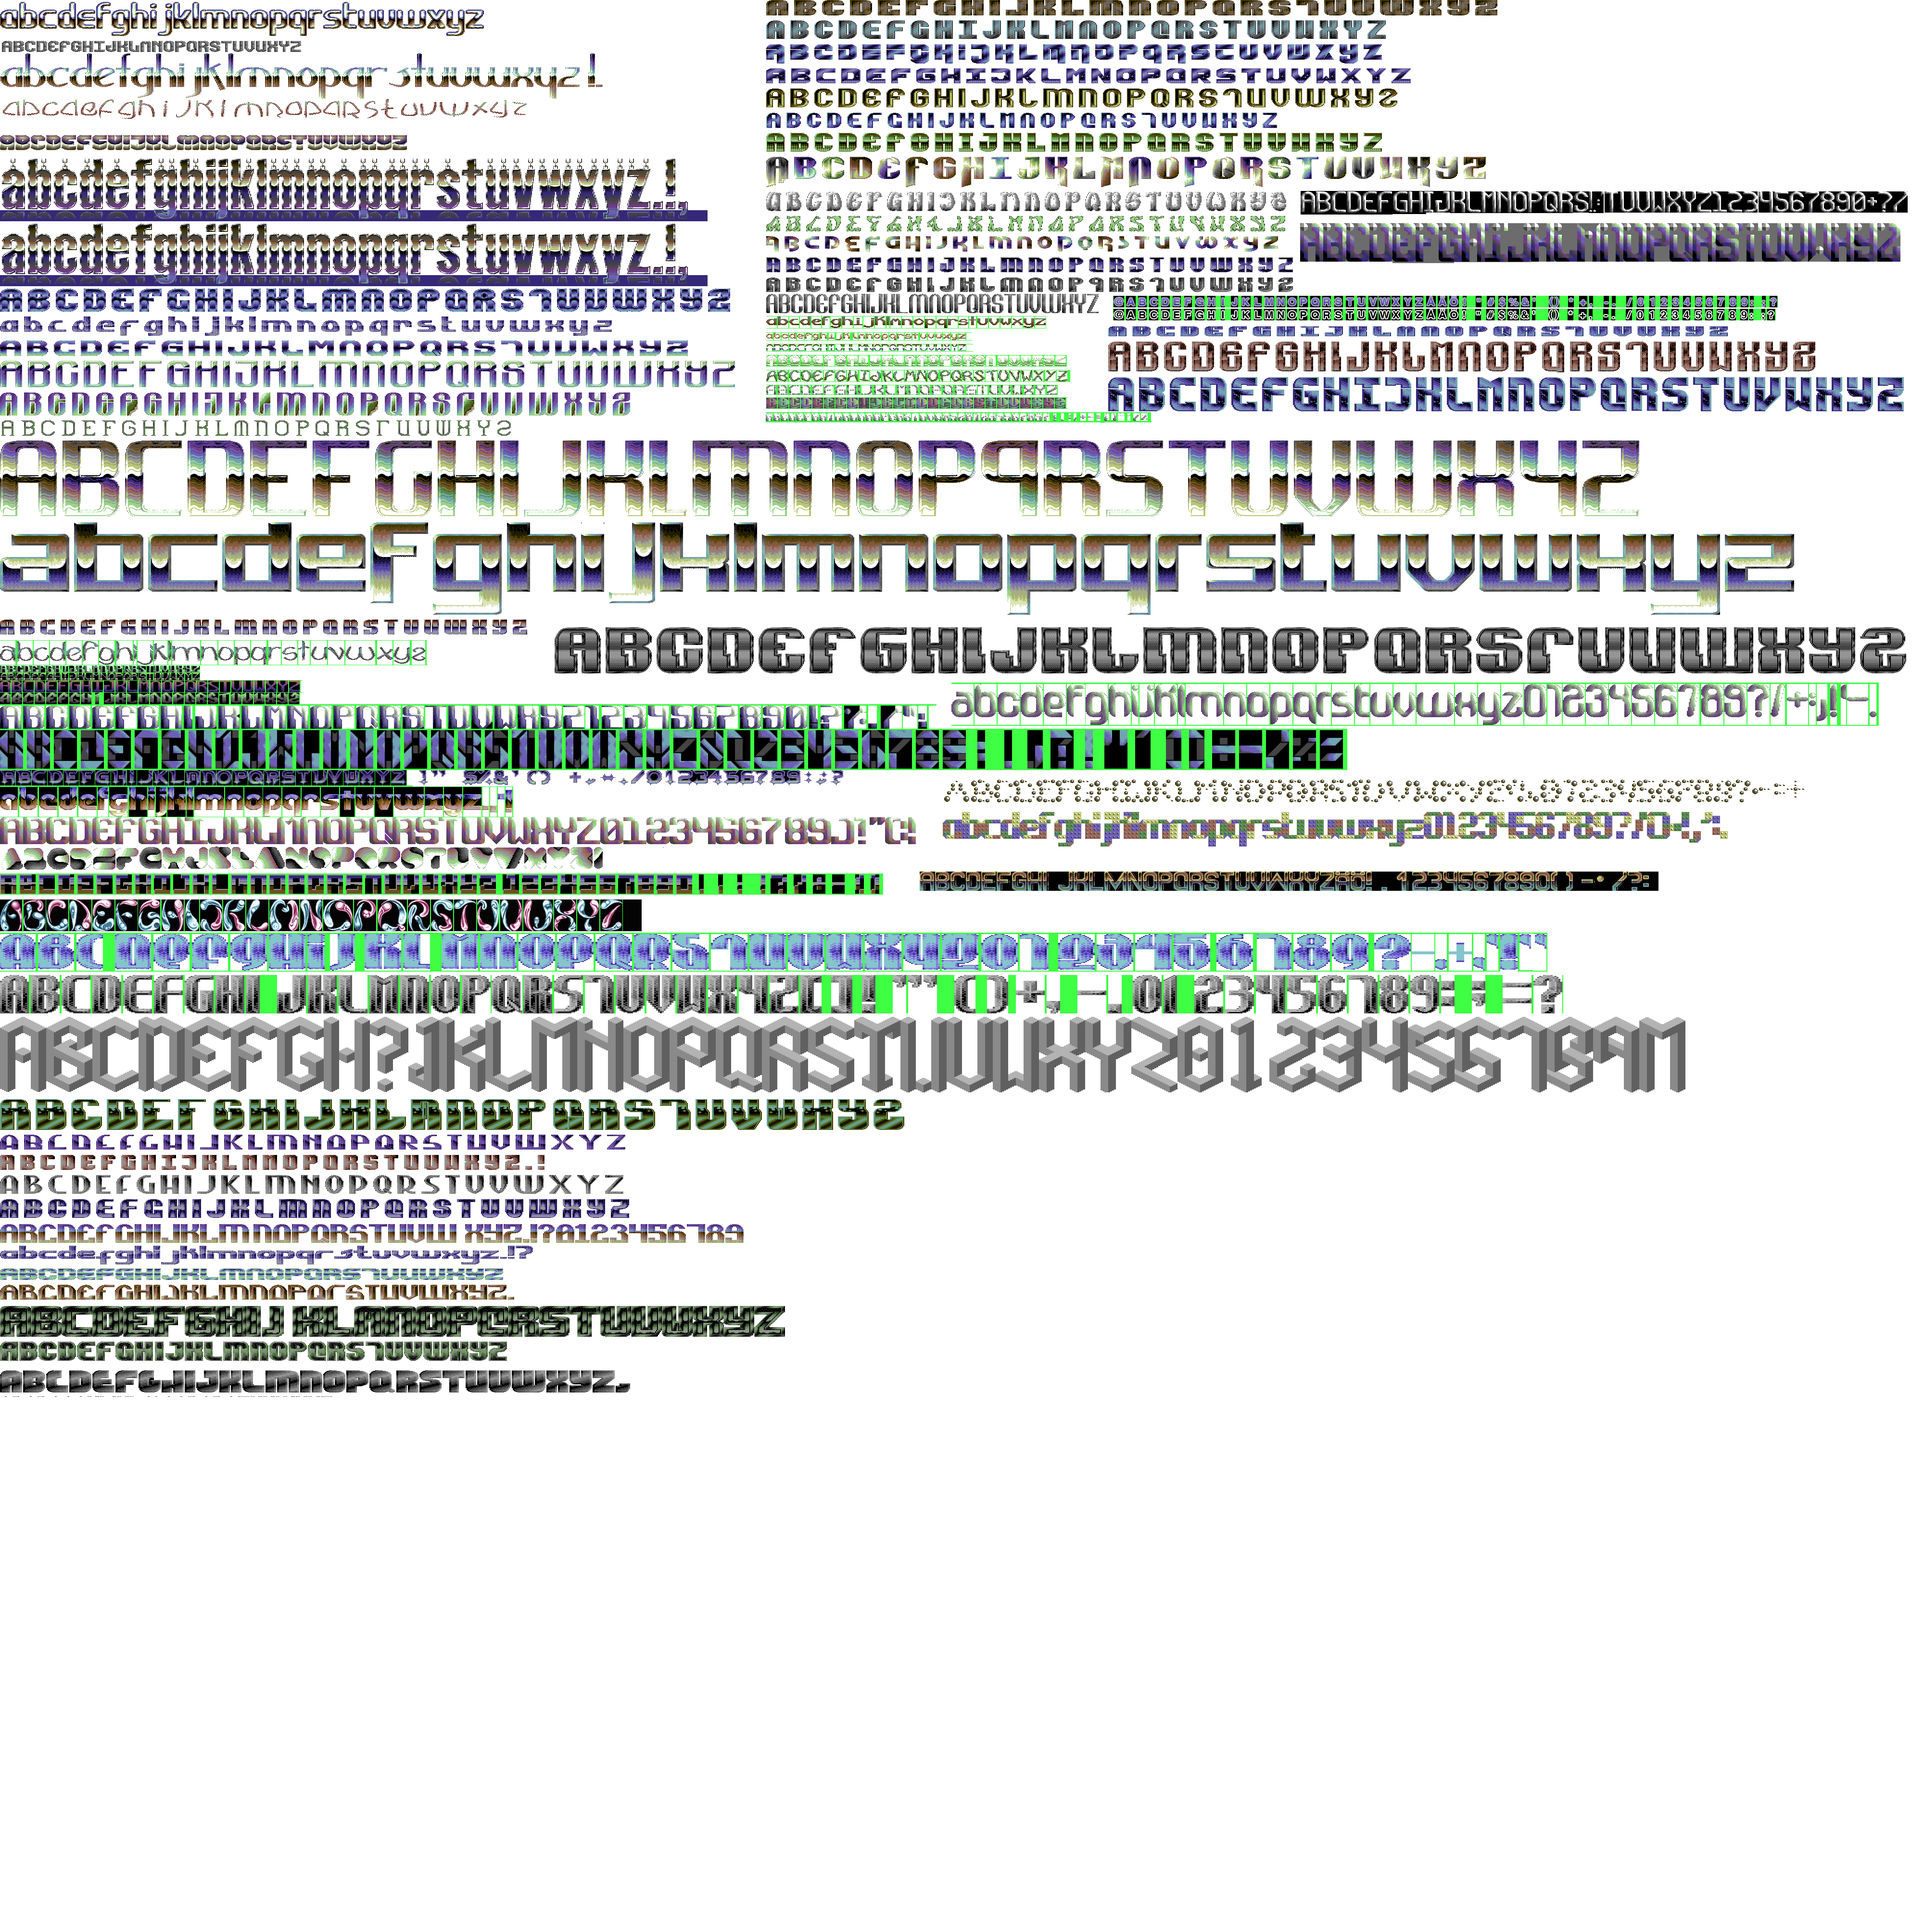
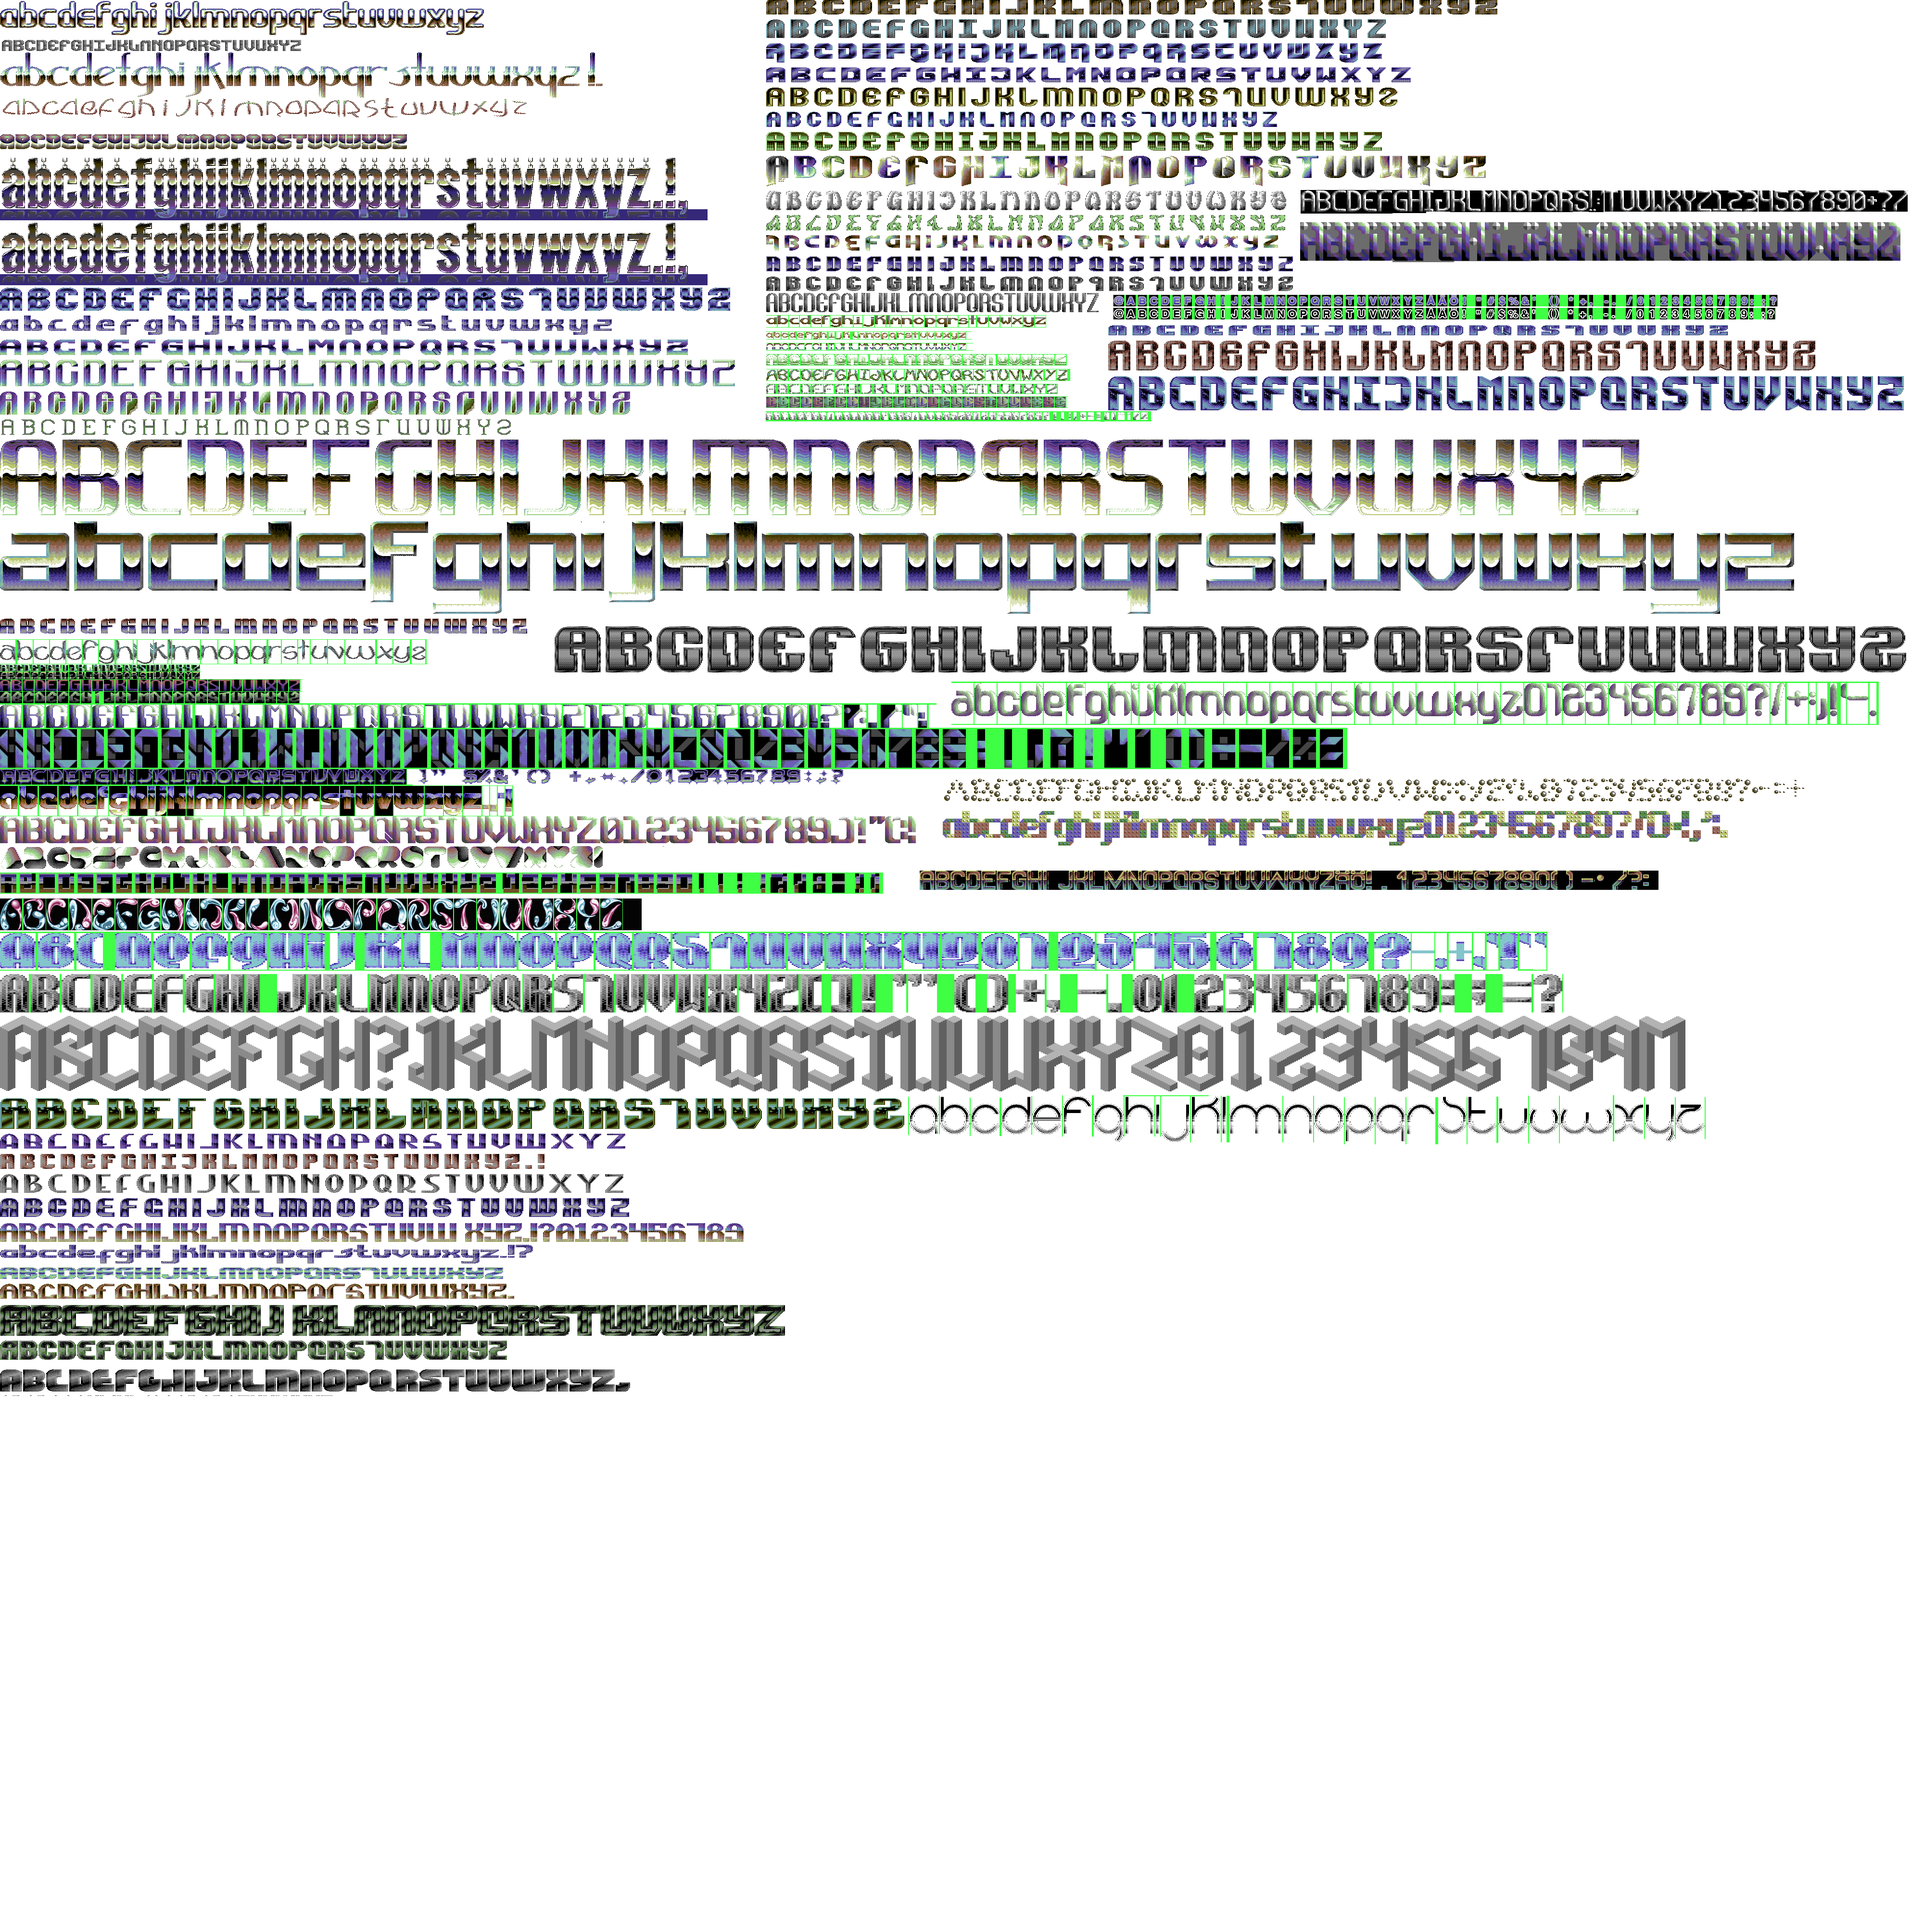
New font by zscs

Changed region(s): [[0.0, 0.0, 1.0, 0.5312], [0.0, 0.5625, 0.875, 0.7188]]

diff --git a/js/fonts.js b/js/fonts.js
@@ -1,103 +1,98 @@
-var imgobj = {"excesscosowi":{"start":0,"width":256,"height":90},
-"fullheight":4693,"fullwidth":300,"isometric":{"start":90,"width":298,"height":167},
-"excesscute":{"start":257,"width":300,"height":86},
-"ollie":{"start":343,"width":139,"height":62},
-"dotshires":{"start":405,"width":208,"height":90},
-"reward":{"start":495,"width":93,"height":34},
-"rookie":{"start":529,"width":232,"height":74},
-"rewardbw":{"start":603,"width":92,"height":34},
-"tinygold":{"start":637,"width":68,"height":24},
-"arcoss":{"start":661,"width":192,"height":58},
-"legomylogo":{"start":719,"width":152,"height":82},
-"fcs":{"start":801,"width":154,"height":50},
-"rocks":{"start":851,"width":192,"height":58},
-"roundandlong":{"start":909,"width":136,"height":54},
-"foldfont":{"start":963,"width":208,"height":90},
-"roundandproud":{"start":1053,"width":162,"height":95},
-"bigcolourhires":{"start":1148,"width":208,"height":66},
-"twobytwohirescupid":{"start":1214,"width":76,"height":24},
-"nailedit":{"start":1238,"width":72,"height":26},
-"balls":{"start":1264,"width":73,"height":25},
-"cupidtilt":{"start":1289,"width":104,"height":32},
-"psychopoetry":{"start":1321,"width":104,"height":33},
-"metalpetscii":{"start":1354,"width":152,"height":50},
-"pseudotechno":{"start":1404,"width":104,"height":29},
-"cupid2014":{"start":1433,"width":114,"height":52},
-"ironsky":{"start":1485,"width":104,"height":34},
-"legend":{"start":1519,"width":142,"height":42},
-"censor":{"start":1561,"width":142,"height":42},
-"qpd":{"start":1603,"width":114,"height":41},
-"tostretch":{"start":1644,"width":160,"height":25},
-"cpx4":{"start":1669,"width":166,"height":43},
-"cpx3":{"start":1712,"width":167,"height":51},
-"macaroons":{"start":1763,"width":110,"height":32},
-"artline":{"start":1795,"width":166,"height":50},
-"deekay":{"start":1845,"width":146,"height":42},
-"cupidround":{"start":1887,"width":88,"height":34},
-"cupidfriendlyround":{"start":1921,"width":200,"height":55},
-"orc":{"start":1976,"width":154,"height":85},
-"compyx":{"start":2061,"width":178,"height":107},
-"bd":{"start":2168,"width":210,"height":58},
-"artix":{"start":2226,"width":154,"height":50},
-"bd2":{"start":2276,"width":202,"height":42},
-"bk":{"start":2318,"width":210,"height":66},
-"bk2":{"start":2384,"width":178,"height":58},
-"cml":{"start":2442,"width":144,"height":42},
-"sulaco":{"start":2484,"width":104,"height":34},
-"diart2":{"start":2518,"width":144,"height":72},
-"deekay4":{"start":2590,"width":144,"height":42},
-"dize":{"start":2632,"width":146,"height":42},
-"genius":{"start":2674,"width":210,"height":42},
-"gp":{"start":2716,"width":178,"height":50},
-"htl":{"start":2766,"width":178,"height":50},
-"htl2":{"start":2816,"width":186,"height":42},
-"manowar":{"start":2858,"width":178,"height":50},
-"nec":{"start":2908,"width":146,"height":42},
-"ons":{"start":2950,"width":178,"height":50},
-"oregon":{"start":3000,"width":210,"height":74},
-"skyhigh":{"start":3074,"width":178,"height":32},
-"vic":{"start":3106,"width":146,"height":50},
-"deliverance":{"start":3156,"width":174,"height":50},
-"unibit":{"start":3206,"width":206,"height":58},
-"vic3":{"start":3264,"width":146,"height":42},
-"wot":{"start":3306,"width":138,"height":44},
-"wow":{"start":3350,"width":146,"height":42},
-"tempest":{"start":3392,"width":210,"height":74},
-"vic2":{"start":3466,"width":266,"height":74},
-"cpx6":{"start":3540,"width":151,"height":49},
-"tough":{"start":3589,"width":175,"height":34},
-"doolittle":{"start":3623,"width":175,"height":42},
-"unknown":{"start":3665,"width":234,"height":81},
-"cpx5":{"start":3746,"width":174,"height":52},
-"cupidbigstone":{"start":3798,"width":118,"height":60},
-"deliverance2":{"start":3858,"width":142,"height":74},
-"deekay2":{"start":3932,"width":198,"height":140},
-"deekay3":{"start":4072,"width":198,"height":143},
-"oregon2":{"start":4215,"width":202,"height":106},
-"cpx2":{"start":4321,"width":210,"height":170},
-"diart":{"start":4491,"width":202,"height":202}}
+var imgobj = {
+"excesscosowi":{"start":0,"width":256,"height":90},
+"fullheight":4798,"fullwidth":300,
+"isometric":{"start":195,"width":298,"height":167},
+"excesscute":{"start":362,"width":300,"height":86},
+"ollie":{"start":448,"width":139,"height":62},
+"dotshires":{"start":510,"width":208,"height":90},
+"reward":{"start":600,"width":93,"height":34},
+"rookie":{"start":634,"width":232,"height":74},
+"excesscpx":{"start":90,"width":212,"height":105},
+"rewardbw":{"start":708,"width":92,"height":34},
+"tinygold":{"start":742,"width":68,"height":24},
+"arcoss":{"start":766,"width":192,"height":58},
+"legomylogo":{"start":824,"width":152,"height":82},
+"fcs":{"start":906,"width":154,"height":50},
+"rocks":{"start":956,"width":192,"height":58},
+"roundandlong":{"start":1014,"width":136,"height":54},
+"foldfont":{"start":1068,"width":208,"height":90},
+"roundandproud":{"start":1158,"width":162,"height":95},
+"bigcolourhires":{"start":1253,"width":208,"height":66},
+"twobytwohirescupid":{"start":1319,"width":76,"height":24},
+"nailedit":{"start":1343,"width":72,"height":26},
+"balls":{"start":1369,"width":73,"height":25},
+"cupidtilt":{"start":1394,"width":104,"height":32},
+"psychopoetry":{"start":1426,"width":104,"height":33},
+"metalpetscii":{"start":1459,"width":152,"height":50},
+"pseudotechno":{"start":1509,"width":104,"height":29},
+"cupid2014":{"start":1538,"width":114,"height":52},
+"ironsky":{"start":1590,"width":104,"height":34},
+"legend":{"start":1624,"width":142,"height":42},
+"censor":{"start":1666,"width":142,"height":42},
+"qpd":{"start":1708,"width":114,"height":41},
+"tostretch":{"start":1749,"width":160,"height":25},
+"cpx4":{"start":1774,"width":166,"height":43},
+"cpx3":{"start":1817,"width":167,"height":51},
+"macaroons":{"start":1868,"width":110,"height":32},
+"artline":{"start":1900,"width":166,"height":50},
+"deekay":{"start":1950,"width":146,"height":42},
+"cupidround":{"start":1992,"width":88,"height":34},
+"cupidfriendlyround":{"start":2026,"width":200,"height":55},
+"orc":{"start":2081,"width":154,"height":85},
+"compyx":{"start":2166,"width":178,"height":107},
+"bd":{"start":2273,"width":210,"height":58},
+"artix":{"start":2331,"width":154,"height":50},
+"bd2":{"start":2381,"width":202,"height":42},
+"bk":{"start":2423,"width":210,"height":66},
+"bk2":{"start":2489,"width":178,"height":58},
+"cml":{"start":2547,"width":144,"height":42},
+"sulaco":{"start":2589,"width":104,"height":34},
+"diart2":{"start":2623,"width":144,"height":72},
+"deekay4":{"start":2695,"width":144,"height":42},
+"dize":{"start":2737,"width":146,"height":42},
+"genius":{"start":2779,"width":210,"height":42},
+"gp":{"start":2821,"width":178,"height":50},
+"htl":{"start":2871,"width":178,"height":50},
+"htl2":{"start":2921,"width":186,"height":42},
+"manowar":{"start":2963,"width":178,"height":50},
+"nec":{"start":3013,"width":146,"height":42},
+"ons":{"start":3055,"width":178,"height":50},
+"oregon":{"start":3105,"width":210,"height":74},
+"skyhigh":{"start":3179,"width":178,"height":32},
+"vic":{"start":3211,"width":146,"height":50},
+"deliverance":{"start":3261,"width":174,"height":50},
+"unibit":{"start":3311,"width":206,"height":58},
+"vic3":{"start":3369,"width":146,"height":42},
+"wot":{"start":3411,"width":138,"height":44},
+"wow":{"start":3455,"width":146,"height":42},
+"tempest":{"start":3497,"width":210,"height":74},
+"vic2":{"start":3571,"width":266,"height":74},
+"cpx6":{"start":3645,"width":151,"height":49},
+"tough":{"start":3694,"width":175,"height":34},
+"doolittle":{"start":3728,"width":175,"height":42},
+"unknown":{"start":3770,"width":234,"height":81},
+"cpx5":{"start":3851,"width":174,"height":52},
+"cupidbigstone":{"start":3903,"width":118,"height":60},
+"deliverance2":{"start":3963,"width":142,"height":74},
+"deekay2":{"start":4037,"width":198,"height":140},
+"deekay3":{"start":4177,"width":198,"height":143},
+"oregon2":{"start":4320,"width":202,"height":106},
+"cpx2":{"start":4426,"width":210,"height":170},
+"diart":{"start":4596,"width":202,"height":202}}
 var fonts = {
-  excesscosowi:{
-    product: 'Cosowi Avantgarde',
-    year: '2021',
-    productlink: 'https://csdb.dk/release/?id=203391',
-    format: '3 Colour Font',
-    maker: 'zscs',
-    makerlink: 'https://csdb.dk/scener/?id=22888',
-    offset:2027,height:80,
-    "0":[2355,60],"1":[2419,28],"2":[2483,60],"3":[2547,60],
-    "4":[2611,61],"5":[2676,60],"6":[2740,60],"7":[2804,60],
-    "8":[2868,60],"9":[2932,60],"a":[0,60],"b":[64,60],
-    "c":[128,60],"d":[192,60],"e":[256,60],"f":[320,60],
-    "g":[384,60],"h":[448,60],"i":[512,28],"j":[576,60],
-    "k":[640,60],"l":[704,60],"m":[768,60],"n":[832,60],
-    "o":[896,60],"p":[960,60],"q":[1022,64],"r":[1088,60],
-    "s":[1152,60],"t":[1216,60],"u":[1280,60],"v":[1344,60],
-    "w":[1408,60],"x":[1472,60],"y":[1536,60],"z":[1600,60],
-    "[":[1664,44],"]":[1728,44],"!":[1792,28],"'":[1856,28],
-    "\"":[1888,60],"(":[1984,44],")":[2052,44],"+":[2112,60],
-    ",":[2176,28],"-":[2240,60],".":[2304,28],":":[2996,28],
-    ";":[3060,28],"=":[3124,60],"?":[3188,60]
+excesscpx:{
+  product: '',
+  year: '2021',
+  productlink: '',
+  format: '3 Colour Font',
+  maker: 'zscs',
+  makerlink: 'https://csdb.dk/scener/?id=22888',
+  xoffset:1890, offset:2279,height:95,
+  "a":[0,62],"b":[64,62],"c":[128,60],"d":[192,62],"e":[256,62],
+  "f":[320,60],"g":[384,62],"h":[448,62],"i":[512,10],"j":[524,60],"k":[586,62],
+  "l":[650,10],"m":[666,110],"n":[778,62],"o":[842,62],"p":[906,62],"q":[970,62],
+  "r":[1034,60],"s":[1100,59],"t":[1161,60],"u":[1225,62],"v":[1289,62],"w":[1353,110],
+  "x":[3356-1890,62],"y":[1530,62],z:[1594,60]
 },
 isometric:{
   product: '',
@@ -115,6 +110,28 @@ isometric:{
   "x":[2160,96],"y":[2256,96],"z":[2352,96],"0":[2448,96],"1":[2559,64],
   "2":[2639,96],"3":[2735,96],"4":[2831,96],"5":[2927,96],"6":[3024,96],
   "7":[3120,96],"8":[3216,96],"9":[3312,96],"m":[3408,96]
+},
+excesscosowi:{
+  product: 'Cosowi Avantgarde',
+  year: '2021',
+  productlink: 'https://csdb.dk/release/?id=203391',
+  format: '3 Colour Font',
+  maker: 'zscs',
+  makerlink: 'https://csdb.dk/scener/?id=22888',
+  offset:2027,height:80,
+  "0":[2355,60],"1":[2419,28],"2":[2483,60],"3":[2547,60],
+  "4":[2611,61],"5":[2676,60],"6":[2740,60],"7":[2804,60],
+  "8":[2868,60],"9":[2932,60],"a":[0,60],"b":[64,60],
+  "c":[128,60],"d":[192,60],"e":[256,60],"f":[320,60],
+  "g":[384,60],"h":[448,60],"i":[512,28],"j":[576,60],
+  "k":[640,60],"l":[704,60],"m":[768,60],"n":[832,60],
+  "o":[896,60],"p":[960,60],"q":[1022,64],"r":[1088,60],
+  "s":[1152,60],"t":[1216,60],"u":[1280,60],"v":[1344,60],
+  "w":[1408,60],"x":[1472,60],"y":[1536,60],"z":[1600,60],
+  "[":[1664,44],"]":[1728,44],"!":[1792,28],"'":[1856,28],
+  "\"":[1888,60],"(":[1984,44],")":[2052,44],"+":[2112,60],
+  ",":[2176,28],"-":[2240,60],".":[2304,28],":":[2996,28],
+  ";":[3060,28],"=":[3124,60],"?":[3188,60]
 },
 excesscute:{
   product: 'Big Swing Intro',

diff --git a/rip.html b/rip.html
@@ -21,12 +21,13 @@ window.addEventListener('load', function(){
   c.height = img.naturalHeight;
 
   ctx.drawImage(img,0,0,width,img.naturalHeight);
-  var offset = 0;
-  var startpoint = [0,2028];
+  var offset = 1890;
+  var startpoint = [0,2279];
   var green = {r:62,b:67,g:255,a:255};
   // var green = {r:75,g:253,b:81,a:255};
-  // var letters = `@abcdefghijklmnopqrstuvwxyzåäö!"#$%&'()*+,-./01234567989:;?`.split('');
   var letters = `abcdefghijklmnopqrstuvwxyz[]!'"()+,-.0123456789:;=?`.split('');
+  var letters = `abcdefghijklmnopqrstuvwxyxz`.split('');
+  // var letters = `@abcdefghijklmnopqrstuvwxyzåäö!"#$%&'()*+,-./01234567989:;?`.split('');
   console.log(letters);
   var fontdata = {};
 
@@ -79,7 +80,7 @@ window.addEventListener('load', function(){
     };
   }
 
-  fontdata.height = 76 //getheight(startpoint);
+  fontdata.height = 95 //getheight(startpoint);
   getfonts();
 }, false)
 </script>
